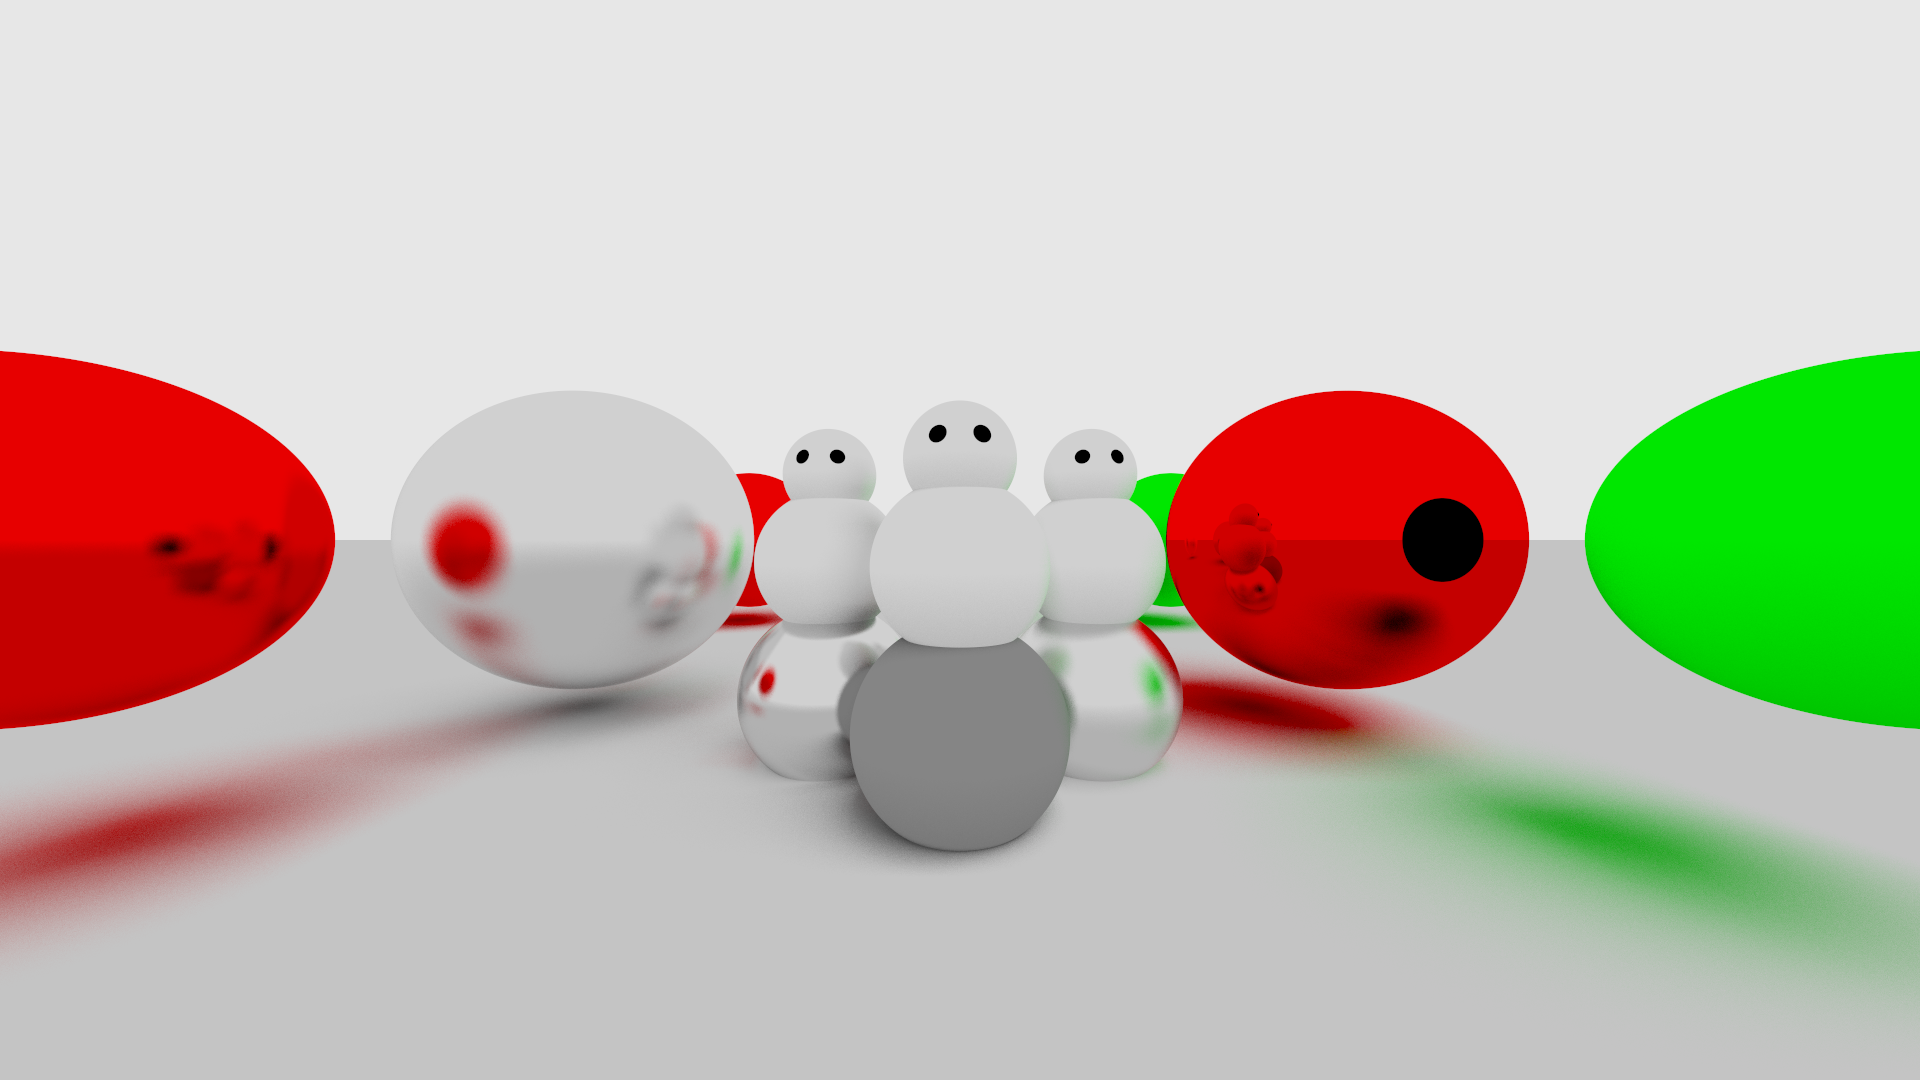
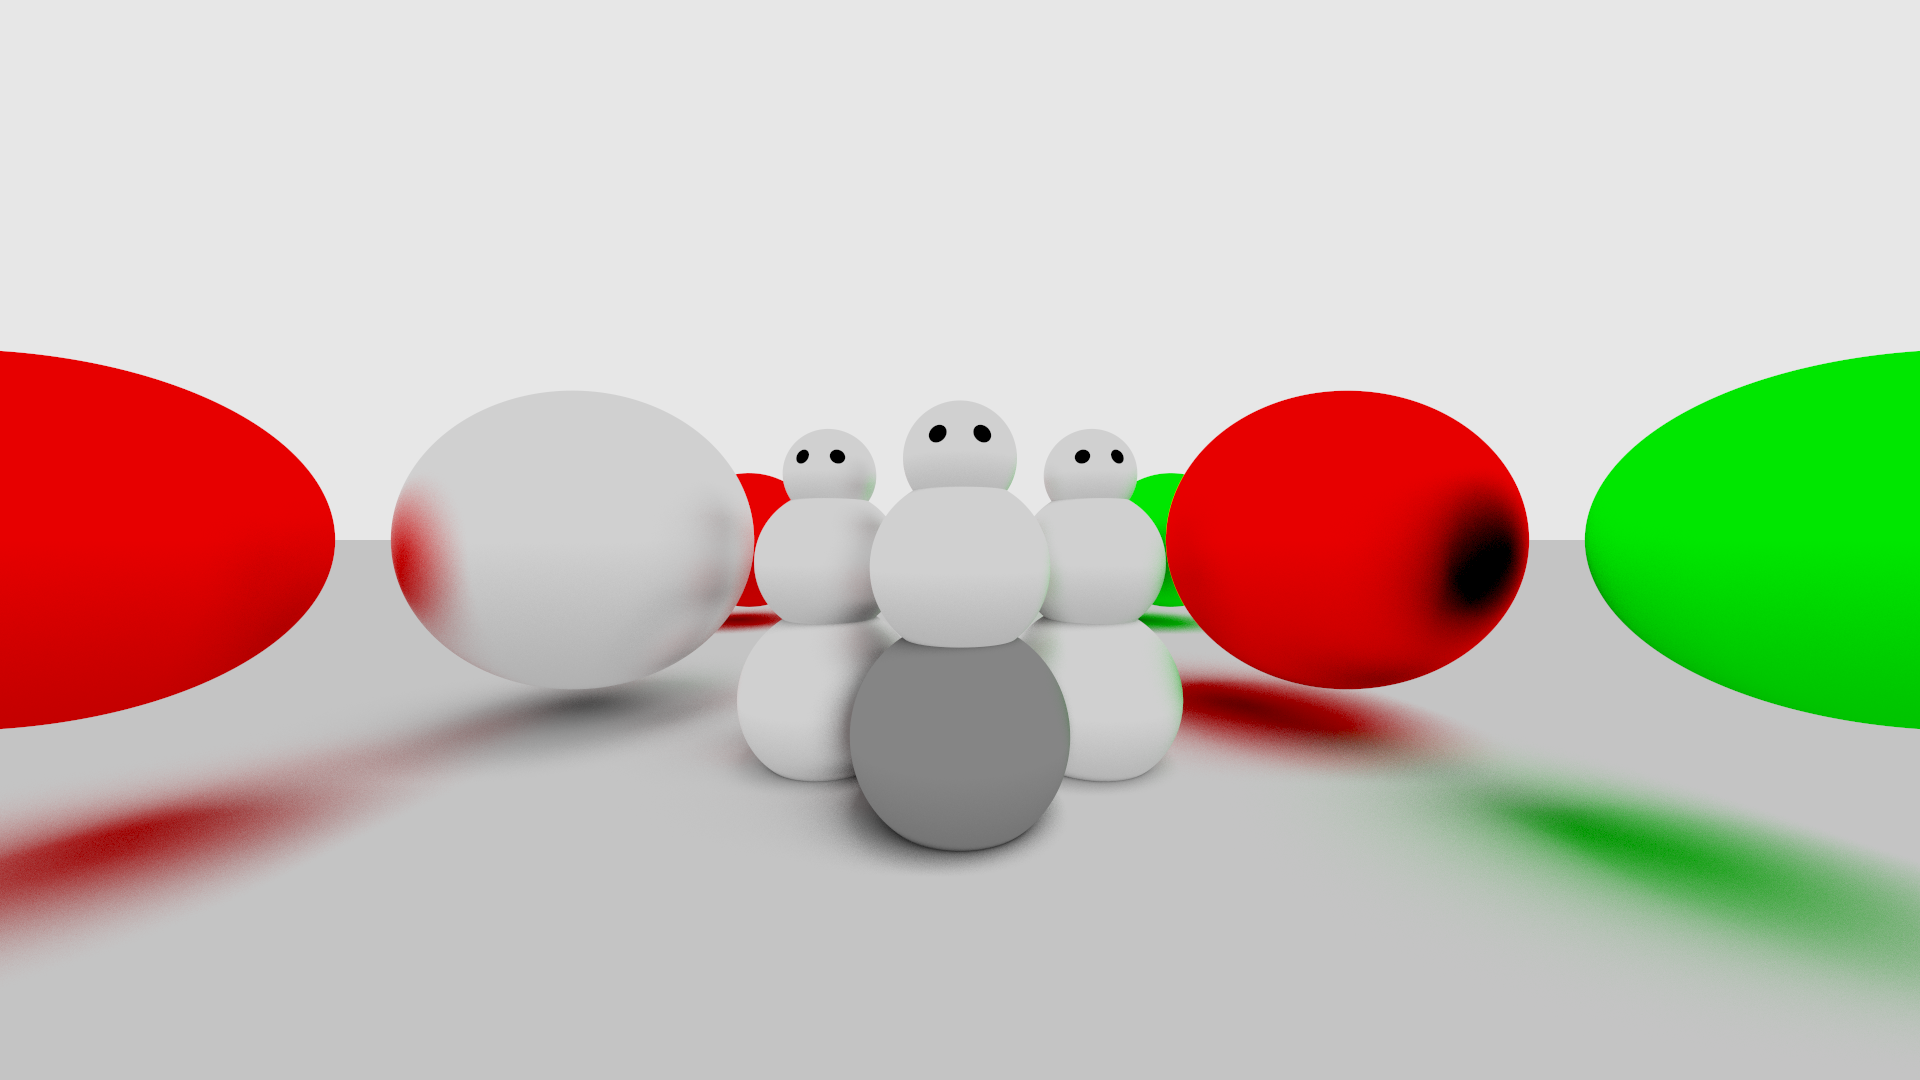
Add Multithreading on StratifiedSample

diff --git a/src/taher858897/a05/Main.java b/src/taher858897/a05/Main.java
@@ -27,13 +27,13 @@ public class Main {
     private static final double GAMMA = 2.2;
 
 
-    public static Sampler raytrace(Group scene, Camera camera, int sample_rate){
+    public static Sampler raytrace(Group scene, Camera camera){
         RayTracer raySampler = new RayTracer(scene, camera);
-        StratifiedSampler s = new StratifiedSampler(raySampler, sample_rate);
-        return new GammaSampler(s, GAMMA);
+        return raySampler;
     }
 
     public static void main(String[] args) {
+        long start_time = System.currentTimeMillis();
         Image image = new Image(width, height);
         //Mat4 cameraTransformation = Mat4.translate(-2,5,10);
         //cameraTransformation = cameraTransformation.multiply(Mat4.rotate(vec3(0,1,0),-50));
@@ -45,26 +45,34 @@ public class Main {
             bg,
             genSnowmanScene()
         );
-        Sampler s = raytrace(scene, stationaryCamera, SAMPLING_RATE);
-        ImageMultithread imageMultithread = new ImageMultithread(8, image, s, width/2, width,0, height);
+        Sampler tracer = raytrace(scene, stationaryCamera);
+        //image.sample(new StratifiedSampler(tracer, SAMPLING_RATE));
+        //ImageMultithread imageMultithread = new ImageMultithread(8, image, new GammaSampler(new StratifiedSampler(tracer, SAMPLING_RATE), GAMMA), 0, width,0, height);
+        SampleMultithread sampleMultithread = new SampleMultithread(image, tracer, (SAMPLING_RATE*4)/8,4);
         try {
 
-            ImageMultithreadSocketWriter writer = new ImageMultithreadSocketWriter("saeftaher.de", 8770, image, s,0, width/2,0, height);
+            ImageMultithreadSocketWriter writer = new ImageMultithreadSocketWriter("saeftaher.de", 8770, image, tracer, (SAMPLING_RATE*4)/8);
             Thread socketThread = new Thread(writer);
 
             socketThread.start();
-            imageMultithread.startMultiThreading();
+            //imageMultithread.startMultiThreading();
+            sampleMultithread.startMultiThreading();
 
-            imageMultithread.join();
+            //imageMultithread.join();
             socketThread.join();
+            sampleMultithread.join();
+            image = sampleMultithread.getImages();
+            image = Image.mergeAVG(writer.RESULT_IMG, image);
 
-            image.initLocks();
-            image.merge(writer.RESULT_IMG,0, width/2,0, height);
-            writer.RESULT_IMG.write("doc/test.png");
+            //image.mergeAVG(writer.RESULT_IMG,0, width/2,0, height);
+            //writer.RESULT_IMG.write("doc/test.png");
 
         } catch ( Exception e) {
             e.printStackTrace();
         }
+
+        image.sample(new GammaSampler(image, GAMMA));
+
 
 
         String filename = "doc/a05-diffuse-spheres.png";
@@ -76,6 +84,7 @@ public class Main {
         } catch (IOException error) {
             System.out.println(String.format("Something went wrong writing: %s: %s", filename, error));
         }
+        System.out.println((start_time-System.currentTimeMillis())/1000.0 + "s");
     }
 
     public static Vec3 middle(Vec3 a, Vec3 b){
@@ -162,14 +171,13 @@ public class Main {
     public static Group genSnowmanScene(){
         Shape ground = new Plane(vec3(0.0, -1, 0.0), vec3(0, 1, 0), new DiffuseMaterial(new Vec3(0.7)));
 
-
-        Shape globe1 = new Sphere(vec3(-2.5,0,-1.5), 0.5, new DiffuseMaterial(red));
+        Shape globe1 = new Sphere(vec3(-2.5, 0, -1.5), 0.5, new DiffuseMaterial(red));
         Shape globe2 = new Sphere(vec3(-2.0, 0, -3), 0.8, new DiffuseMaterial(new Vec3(0.8)));
         Shape globe3 = new Sphere(vec3(-2.5, 0, -6.5), 0.8, new DiffuseMaterial(red));
 
         Shape globe4 = new Sphere(vec3(2.5, 0, -1.5), 0.5, new DiffuseMaterial(green));
         Shape globe5 = new Sphere(vec3(2.0, 0, -3), 0.8, new DiffuseMaterial(red));
-        Shape globe6 = new Sphere(vec3(2.5, 0, -6.5), 0.8,new DiffuseMaterial(green));
+        Shape globe6 = new Sphere(vec3(2.5, 0, -6.5), 0.8, new DiffuseMaterial(green));
 
         Shape le_eye = new Sphere(vec3(-0.065, 0.55 -  .2, -2.34+.5), .043 ,new DiffuseMaterial(black));
         Shape re_eye = new Sphere(vec3(0.065, 0.55  -  .2, -2.34+.5), .043 ,new DiffuseMaterial(black));
@@ -192,13 +200,14 @@ public class Main {
         globe10 = new Sphere(vec3(0.0+.6, -.5    -  .2, -2.5), .4 ,new DiffuseMaterial(vec3(.8)));
         Group snowMan2 = new Group(re_eye,le_eye, globe8,globe9,globe10);
 
+
         Group cubes = new Group(
                 new Cube(5, new Vec3(0,-1,-1.5), new ReflectionMaterial(vec3(.8),.3)),
                 new Cube(.5, new Vec3(.5,-1,-1.5), new ReflectionMaterial(vec3(.7),.2)),
                 new Cube(.5, new Vec3(.25,-0.5,-1.5), new ReflectionMaterial(vec3(.6),.1))
                 );
-        Group scene = new Group(ground,globe1, globe5 , globe2, globe3, globe4, globe6,
-                 snowMan1,snowMan2, snowMan
+        Group scene = new Group(ground, globe1, globe5 , globe2, globe3, globe4, globe6,
+                 snowMan1, snowMan2, snowMan
         );
 
         return scene;

diff --git a/src/taher858897/a05/ImageMultithreadSocketReader.java b/src/taher858897/a05/ImageMultithreadSocketReader.java
@@ -1,9 +1,7 @@
 package taher858897.a05;
 
 import taher858897.Image;
-import taher858897.a05.ImageMultithread;
 import taher858897.a05.Sampler.Sampler;
-import taher858897.a05.Shape.Group;
 
 import java.io.*;
 import java.net.ServerSocket;
@@ -33,14 +31,11 @@ public class ImageMultithreadSocketReader {
 
                     Sampler sampler = (Sampler) in.readObject();
 
-                    int x_start = (int) in.readObject();
-                    int x_end = (int) in.readObject();
-                    int y_start = (int) in.readObject();
-                    int y_end = (int) in.readObject();
+                    int SAMPLE_RATE = (int) in.readObject();
 
                     System.out.println("done");
 
-                    startMultiThreadRendering(image, sampler, x_start, x_end, y_start, y_end);
+                    startMultiThreadRendering(image, sampler, SAMPLE_RATE);
 
                 } catch (IOException | ClassNotFoundException ignored) {
                     ignored.printStackTrace();
@@ -50,22 +45,14 @@ public class ImageMultithreadSocketReader {
 
     }
 
-    public static void startMultiThreadRendering(Image image, Sampler s, int x_start, int x_end, int y_start, int y_end){
-        image.initLocks();
-        ImageMultithread imageMultithread = new ImageMultithread(16, image, s, x_start, x_end, y_start, y_end);
-        imageMultithread.startMultiThreading();
-        imageMultithread.join();
+    public static void startMultiThreadRendering(Image image, Sampler s, int SAMPLE_RATE){
+        SampleMultithread sampleMultithread = new SampleMultithread(image, s, SAMPLE_RATE, 8);
+        sampleMultithread.startMultiThreading();
+        sampleMultithread.join();
         System.out.println("done");
-
-        /*String filename = "doc/a061-scene.png";
-        try {
-            System.out.println("Start writing image: " + filename);
-
-            image.write(filename);
-            System.out.println("Wrote image: " + filename);
-        } catch (IOException error) {
-            System.out.println(String.format("Something went wrong writing: %s: %s", filename, error));
-        }*/
+        System.out.println("Start merging images");
+        image = sampleMultithread.getImages();
+        System.out.println("Done merging images");
 
         try {
             ObjectOutputStream out = new ObjectOutputStream(socket.getOutputStream());

diff --git a/src/taher858897/a05/ImageMultithreadSocketWriter.java b/src/taher858897/a05/ImageMultithreadSocketWriter.java
@@ -12,39 +12,31 @@ public class ImageMultithreadSocketWriter implements Runnable{
     public Image RESULT_IMG;
     final Image image;
     final Sampler sampler;
-    final int x_start;
-    final int x_end;
-    final int y_start;
-    final int y_end;
+    final int SAMPLE_RATE;
 
-    public ImageMultithreadSocketWriter(String host, int port, Image image, Sampler sampler, int x_start, int x_end, int y_start, int y_end) throws IOException {
+
+    public ImageMultithreadSocketWriter(String host, int port, Image image, Sampler sampler, int SAMPLE_RATE) throws IOException {
         this.image = image;
         this.sampler = sampler;
-        this.x_start = x_start;
-        this.x_end = x_end;
-        this.y_start = y_start;
-        this.y_end = y_end;
+        this.SAMPLE_RATE = SAMPLE_RATE;
+
         this.s =  new Socket(host, port);
         //BufferedOutputStream bout = new BufferedOutputStream(s.getOutputStream());
         this.out = new ObjectOutputStream(s.getOutputStream());
     }
 
-    private Image sendDataWaitForResponse(Image image, Sampler s, int x_start, int x_end, int y_start, int y_end) throws IOException {
+    private Image sendDataWaitForResponse(Image image, Sampler s, int SAMPLE_RATE) throws IOException {
         out.writeObject(image.getWidth());
         out.writeObject(image.getHeight());
         out.flush();
         out.writeObject(s);
         out.flush();
-        out.writeObject(x_start);
-        out.writeObject(x_end);
-        out.writeObject(y_start);
-        out.writeObject(y_end);
+        out.writeObject(SAMPLE_RATE);
         out.flush();
         ObjectInputStream in = new ObjectInputStream(this.s.getInputStream());
         try {
             System.out.println("Wait on response");
             Image newImg = (Image) in.readObject();
-            newImg.initLocks();
             this.s.close();
             System.out.println("Socket closed.");
             return newImg;
@@ -57,8 +49,7 @@ public class ImageMultithreadSocketWriter implements Runnable{
     @Override
     public void run() {
         try {
-            RESULT_IMG = sendDataWaitForResponse(image, sampler, x_start,x_end,y_start,y_end);
-            RESULT_IMG.initLocks();
+            RESULT_IMG = sendDataWaitForResponse(image, sampler, SAMPLE_RATE);
         } catch (IOException e) {
             e.printStackTrace();
         }

diff --git a/src/taher858897/a05/SampleMultithread.java b/src/taher858897/a05/SampleMultithread.java
@@ -1,0 +1,71 @@
+package taher858897.a05;
+
+import taher858897.Image;
+import taher858897.a05.Sampler.Sampler;
+import taher858897.a05.Sampler.StratifiedSampler;
+
+import java.util.ArrayList;
+
+public class SampleMultithread implements Runnable{
+
+    private final Sampler tracer;
+    private final Image img;
+    private final int SAMPLE_RATE;
+    private final int threads_count;
+    private final StratifiedSampler stratifiedSampler;
+
+    private final ArrayList<Thread> threads;
+    private final ArrayList<SampleMultithread> samplers;
+
+    public SampleMultithread(Image img, Sampler r, int SAMPLE_RATE, int threads_count){
+        tracer = r;
+        this.img = img;
+        this.SAMPLE_RATE = SAMPLE_RATE;
+        this.threads_count = threads_count;
+        this.stratifiedSampler = new StratifiedSampler(tracer, SAMPLE_RATE);
+        this.threads = new ArrayList<>(threads_count);
+        this.samplers = new ArrayList<>(threads_count);
+        System.out.println(SAMPLE_RATE);
+    }
+
+    public void startMultiThreading(){
+        int rate = SAMPLE_RATE / threads_count;
+        for (int j = 1; j <= threads_count; j++) {
+            SampleMultithread sampleMultithread = new SampleMultithread(new Image(img), tracer, rate, j);
+            samplers.add(sampleMultithread);
+            Thread t = new Thread(sampleMultithread);
+            t.start();
+            threads.add(t);
+        }
+    }
+
+    public void join(){
+        for (Thread t: threads) {
+            try {
+                t.join();
+            } catch (InterruptedException e) {
+                e.printStackTrace();
+            }
+        }
+    }
+
+    private Image getImg() {
+        return img;
+    }
+
+    public Image getImages() {
+        Image[] images = new Image[samplers.size()];
+        for (int i = 0, samplersSize = samplers.size(); i < samplersSize; i++) {
+            SampleMultithread sampleMultithread = samplers.get(i);
+            images[i] = sampleMultithread.getImg();
+        }
+        return Image.mergeAVG(images);
+    }
+
+    @Override
+    public void run() {
+        System.out.println(threads_count + " start");
+        img.sample(stratifiedSampler);
+        System.out.println(threads_count + " done");
+    }
+}

diff --git a/src/taher858897/Image.java b/src/taher858897/Image.java
@@ -8,7 +8,7 @@ import java.io.IOException;
 import java.io.Serializable;
 import java.util.HashMap;
 
-public class Image implements Serializable{
+public class Image implements Serializable, Sampler{
     private double[] image;
     private int width;
     private int height;
@@ -24,11 +24,14 @@ public class Image implements Serializable{
         this.height = height;
     }
 
-    public void initLocks(){
-        /*index_locks = new Object[width*height*3];
-        for (int i = 0; i < index_locks.length; i++) {
-            index_locks[i] = new Object();
-        }*/
+    /**
+     * Copy ctor
+     * @param i
+     */
+    public Image(Image i){
+        width = i.width;
+        height = i.height;
+        image = new double[width*height*3];
     }
 
     public void merge(Image img, int x_start, int x_end, int y_start, int y_end){
@@ -82,5 +85,32 @@ public class Image implements Serializable{
 
     public int getHeight() {
         return height;
+    }
+
+    public static Image mergeAVG(Image ... images) {
+        double size = images.length;
+        Image result = new Image(images[0]);
+        for (int x = 0; x < result.width; x++) {
+            for (int y = 0; y < result.height; y++) {
+                double sumR = 0;
+                double sumG = 0;
+                double sumB = 0;
+                for (Image i : images){
+                    if (i == null)
+                        return null;
+                    Vec3 color = i.getPixel(x,y);
+                    sumR += color.x;
+                    sumG += color.y;
+                    sumB += color.z;
+                }
+                result.setPixel(x, y, new Vec3(sumR/size, sumG/size, sumB/size));
+            }
+        }
+        return result;
+    }
+
+    @Override
+    public Vec3 color(double x, double y) {
+        return getPixel((int)x, (int)y);
     }
 }

diff --git a/src/taher858897/a05/ImageMultithread.java b/src/taher858897/a05/ImageMultithread.java
@@ -1,7 +1,9 @@
 package taher858897.a05;
 
 import taher858897.Image;
+import taher858897.a05.RayTracer.RayTracer;
 import taher858897.a05.Sampler.Sampler;
+import taher858897.a05.Sampler.StratifiedSampler;
 
 import java.util.ArrayList;
 
@@ -31,7 +33,6 @@ public class ImageMultithread implements Runnable {
     public void startMultiThreading(){
         start_time = System.currentTimeMillis();
         double display_fac = Math.floor((x_end-x_start)/threads_count);
-
         for (int j = 1; j <= threads_count; j++) {
             int this_thread_start_x = (int) (display_fac * (j-1)) + x_start;
             int this_thread_end_x =(int) (display_fac * j) + x_start;
@@ -42,7 +43,6 @@ public class ImageMultithread implements Runnable {
             t.start();
             threads.add(t);
         }
-
     }
 
     public void join(){

diff --git a/src/taher858897/a05/Material/DiffuseMaterial.java b/src/taher858897/a05/Material/DiffuseMaterial.java
@@ -22,14 +22,13 @@ public class DiffuseMaterial implements Material{
     @Override
     public Ray scatteredRay(Ray r, Hit h) {
         Vec3 rndD = rndDirection();
-        rndD = Vec3.normalize(rndD);
         rndD = Vec3.add(h.normVec, rndD);
         return new Ray(h.position, rndD, EPSILON, Double.POSITIVE_INFINITY);
     }
 
     public Vec3 rndDirection(){
         Vec3 rndD = new Vec3(Random.random(), Random.random(), Random.random());
-        while (rndD.x * rndD.x + rndD.y * rndD.y + rndD.z * rndD.z >= 1){
+        while (rndD.x * rndD.x + rndD.y * rndD.y + rndD.z * rndD.z > 1){
             rndD = new Vec3(Random.random(), Random.random(), Random.random());
         }
         return rndD;
